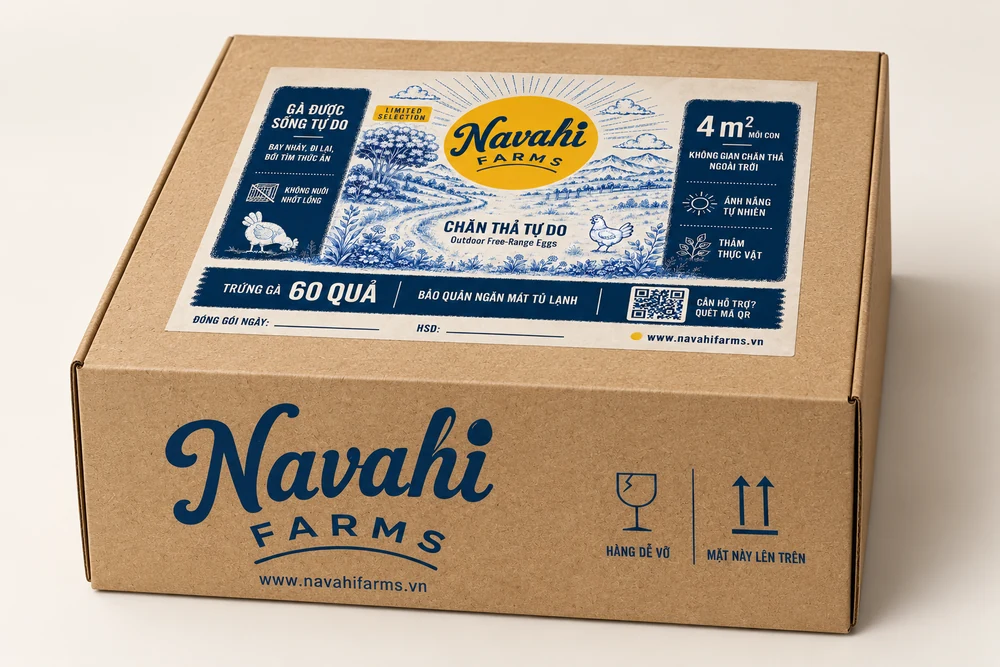
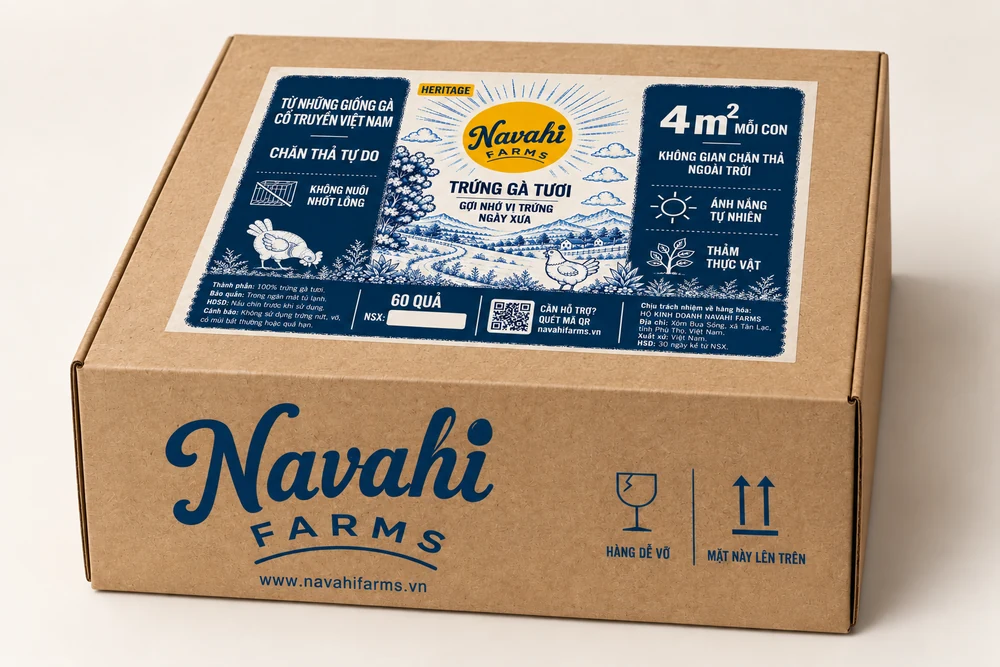
Add files via upload

diff --git a/index.html b/index.html
@@ -95,7 +95,7 @@
         <div class="line">
           <h3 class="line-name rise">Chăn thả tự do</h3>
           <div class="line-copy rise">
-            <p class="line-desc">Thơm. Bùi. Không tanh.</p>
+            <p class="line-desc">Thơm. Ngậy.</p>
           </div>
           <div class="skus">
             <figure class="sku rise">
@@ -104,7 +104,7 @@
                      srcset="assets/standard-10-760.webp 760w, assets/standard-10.webp 1200w"
                      sizes="(min-width:760px) 46vw, 100vw"
                      alt="Nhãn hộp trứng Navahi Chăn thả tự do 10 quả"
-                     width="1200" height="534" loading="lazy" decoding="async">
+                     width="1200" height="533" loading="lazy" decoding="async">
               </div>
               <figcaption>Hộp 10 quả</figcaption>
             </figure>
@@ -124,7 +124,6 @@
           <h3 class="line-name rise">Heritage</h3>
           <div class="line-copy rise">
             <p class="line-desc">Trứng từ những giống gà cổ truyền Việt Nam.</p>
-            <p class="line-desc">Ngậy hơn. Đậm hơn.</p>
             <p class="line-desc">Gợi nhớ vị trứng ngày xưa.</p>
           </div>
           <div class="skus">
@@ -133,8 +132,8 @@
                 <img src="assets/limited-10.webp"
                      srcset="assets/limited-10-760.webp 760w, assets/limited-10.webp 1200w"
                      sizes="(min-width:760px) 46vw, 100vw"
-                     alt="Nhãn hộp trứng Navahi Limited Selection 10 quả"
-                     width="1200" height="534" loading="lazy" decoding="async">
+                     alt="Nhãn hộp trứng Navahi Heritage 10 quả"
+                     width="1200" height="533" loading="lazy" decoding="async">
               </div>
               <figcaption>Hộp 10 quả</figcaption>
             </figure>
@@ -143,7 +142,7 @@
                 <img src="assets/limited-60.webp"
                      srcset="assets/limited-60-640.webp 640w, assets/limited-60.webp 1000w"
                      sizes="(min-width:760px) 46vw, 100vw"
-                     alt="Hộp trứng Navahi Limited Selection 60 quả"
+                     alt="Hộp trứng Navahi Heritage 60 quả"
                      width="1000" height="667" loading="lazy" decoding="async">
               </div>
               <figcaption>Hộp 60 quả</figcaption>
